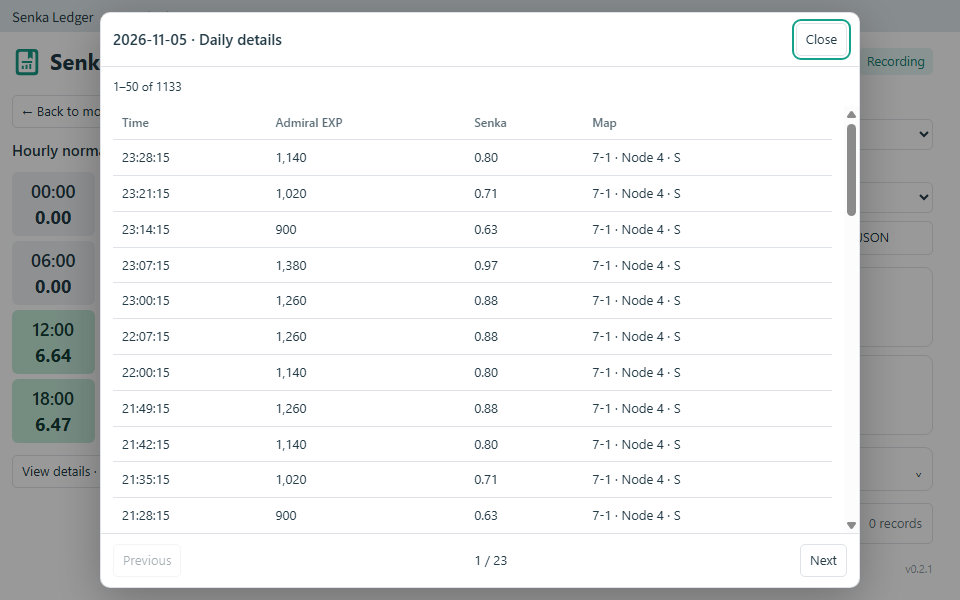
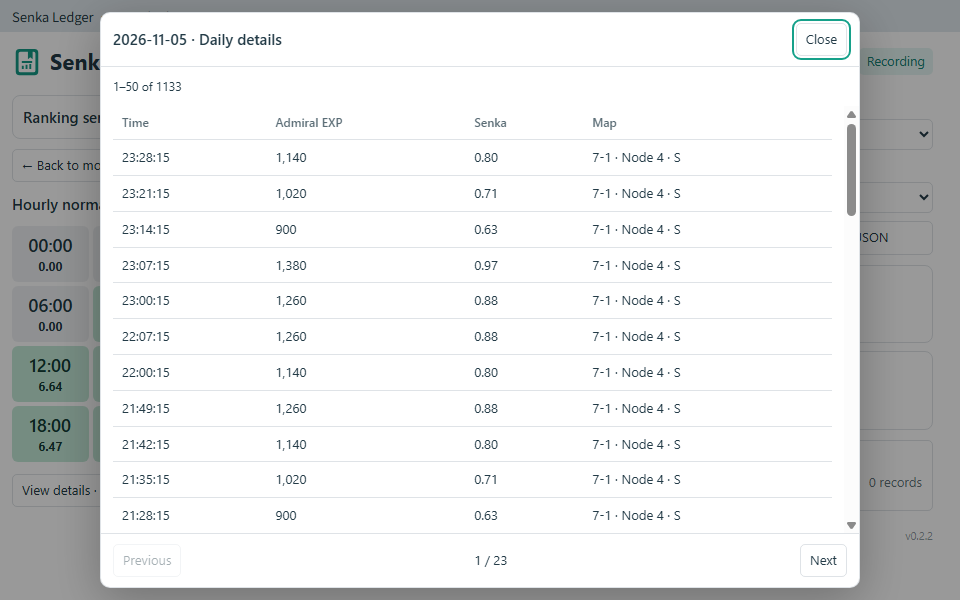
Release v0.2.2 with persistent columns and ranking refresh changes

diff --git a/src/styles.js b/src/styles.js
@@ -6,20 +6,20 @@ module.exports = `
 .sl *{box-sizing:border-box}.sl h2{font-size:22px;margin:0;font-weight:650;overflow-wrap:anywhere}.sl h3{font-size:15px;margin:0;font-weight:600;overflow-wrap:anywhere}.sl p{margin:6px 0}.sl .muted{opacity:.7}
 .sl .top,.sl .brand,.sl .navigation{display:flex;gap:8px;align-items:center;flex-wrap:wrap}.sl .brand{min-width:0}.sl .brand svg{width:30px;height:30px;color:#159985;flex:none}.sl .top{justify-content:space-between}
 .sl .tag{color:#168777;background:rgba(40,178,153,.12);padding:3px 8px;border-radius:5px;max-width:100%;overflow-wrap:anywhere}
-.sl .workspace{display:grid;grid-template-columns:minmax(0,1.4fr) minmax(200px,1fr);gap:20px;align-items:start;margin:16px auto 0;max-width:1100px}.sl .activity-pane{min-width:0;container-type:inline-size}.sl .summary-pane{min-width:0;display:grid;gap:12px}
+.sl .workspace{display:grid;grid-template-columns:minmax(0,1.4fr) minmax(140px,1fr);gap:12px;align-items:start;margin:16px auto 0;max-width:1100px}.sl .activity-pane{min-width:0;container-type:inline-size}.sl .summary-pane{min-width:0;display:grid;gap:10px;container-type:inline-size}
 .sl .controls{display:grid;grid-template-columns:repeat(2,minmax(0,1fr));gap:8px}.sl .controls label{display:flex;flex-direction:column;gap:3px;min-width:0}.sl .controls label:first-child{grid-column:1/-1}
 .sl select,.sl button{font:inherit;color:inherit;background:transparent;border:1px solid var(--sl-line);border-radius:5px;padding:5px 9px;min-width:0}.sl select{width:100%;text-overflow:ellipsis}.sl select option{color:#172d3b;background:#f6f9fb}.sl button{cursor:pointer;overflow-wrap:anywhere}.sl .controls button{align-self:end;min-height:34px;white-space:normal}
 .sl button:disabled{opacity:.4;cursor:default}.sl button:focus-visible,.sl select:focus-visible{outline:2px solid #16a18a;outline-offset:2px}
-.sl .cards{display:grid;grid-template-columns:repeat(2,minmax(0,1fr));gap:8px}.sl .card{border:1px solid var(--sl-line);border-radius:8px;padding:10px;min-width:0}.sl .card-label{line-height:1.4;overflow-wrap:anywhere}.sl .value{font-size:clamp(18px,3cqi,25px);font-variant-numeric:tabular-nums;font-weight:650;overflow-wrap:anywhere}.sl .accent{color:#159985}.sl .amber{color:#c68d26}
-.sl .error{border:1px solid #d56b6b;padding:10px;white-space:pre-wrap;overflow-wrap:anywhere}.sl .scroll{overflow:auto;max-width:100%;min-width:0}.sl table{border-collapse:collapse;width:100%;font-variant-numeric:tabular-nums}.sl th,.sl td{text-align:left;padding:7px 9px;border-bottom:1px solid var(--sl-line);white-space:nowrap}.sl th{font-size:12px;opacity:.75;font-weight:500}.sl .details-table{min-width:410px}.sl .unknown-table{min-width:480px}.sl .rank-table{min-width:350px}.sl .stamp span{display:block;line-height:1.4}.sl .rank-own{font-weight:600;color:#159985}
-.sl .section-head{margin-bottom:10px}.sl .calendar{display:grid;grid-template-columns:repeat(7,minmax(0,1fr));gap:4px;min-width:350px;max-width:520px}.sl .weekday{text-align:center;opacity:.7;padding:2px 0 5px}
+.sl .cards{display:grid;grid-template-columns:repeat(2,minmax(0,1fr));gap:8px}.sl .card{border:1px solid var(--sl-line);border-radius:8px;padding:10px;min-width:0}.sl .card-label{line-height:1.4;overflow-wrap:anywhere}.sl .value{font-size:clamp(16px,10cqi,24px);font-variant-numeric:tabular-nums;font-weight:650;overflow-wrap:anywhere}.sl .accent{color:#159985}.sl .amber{color:#c68d26}
+.sl .error{border:1px solid #d56b6b;padding:10px;white-space:pre-wrap;overflow-wrap:anywhere}.sl .scroll{overflow:auto;max-width:100%;min-width:0}.sl table{border-collapse:collapse;width:100%;font-variant-numeric:tabular-nums}.sl th,.sl td{text-align:left;padding:7px 9px;border-bottom:1px solid var(--sl-line);white-space:nowrap}.sl th{font-size:12px;opacity:.75;font-weight:500}.sl .details-table{min-width:410px}.sl .unknown-table{min-width:480px}.sl .rank-table{min-width:460px}.sl .stamp span{display:block;line-height:1.4}.sl .rank-own{font-weight:600;color:#159985}
+.sl .section-head{margin-bottom:10px}.sl .calendar{display:grid;grid-template-columns:repeat(7,minmax(0,1fr));gap:3px;min-width:280px;max-width:480px}.sl .weekday{text-align:center;opacity:.7;padding:2px 0 5px}
 .sl .ranking{border:1px solid var(--sl-line);border-radius:8px;padding:9px 10px;min-width:0}.sl .rank-summary{cursor:pointer;display:flex;flex-wrap:wrap;gap:5px 9px;align-items:center;justify-content:space-between}.sl .rank-summary::after{content:'⌄';margin-left:auto}.sl .ranking[open] .rank-summary::after{content:'⌃'}
-.sl .tile{display:flex;flex-direction:column;align-items:center;justify-content:center;padding:4px;border:1px solid transparent;border-radius:6px;min-width:0;min-height:64px;gap:3px;text-align:center}.sl .tile:hover{box-shadow:inset 0 0 0 2px rgba(22,130,111,.5)}.sl .tile[aria-pressed="true"]{outline:2px solid #c68d26;outline-offset:-2px}.sl .tile-label{font-size:18px;font-weight:600;line-height:1.25;white-space:nowrap}.sl .tile-value{font-size:clamp(12px,3.5cqi,20px);font-weight:650;line-height:1.25;font-variant-numeric:tabular-nums;max-width:100%;white-space:nowrap}
-.sl .hours{display:grid;grid-template-columns:repeat(6,minmax(0,1fr));gap:5px;max-width:520px}.sl .detail-trigger{margin-top:12px}.sl .unknown-trigger{display:flex;justify-content:space-between;flex-wrap:wrap;gap:6px;text-align:left;width:100%;padding:9px 10px}.sl .empty{padding:16px 8px;text-align:center;opacity:.65;white-space:normal;overflow-wrap:anywhere}.sl .foot{font-size:11px;opacity:.5;text-align:right;margin-top:16px}
+.sl .tile{display:flex;flex-direction:column;align-items:center;justify-content:center;padding:4px;border:1px solid transparent;border-radius:6px;min-width:0;min-height:56px;gap:3px;text-align:center}.sl .tile:hover{box-shadow:inset 0 0 0 2px rgba(22,130,111,.5)}.sl .tile[aria-pressed="true"]{outline:2px solid #c68d26;outline-offset:-2px}.sl .tile-label{font-size:18px;font-weight:600;line-height:1.25;white-space:nowrap}.sl .tile-value{font-size:12px;font-weight:650;line-height:1.25;font-variant-numeric:tabular-nums;max-width:100%;white-space:nowrap}
+.sl .hours{display:grid;grid-template-columns:repeat(6,minmax(0,1fr));gap:4px;min-width:150px;max-width:480px}.sl .detail-trigger{margin-top:12px}.sl .unknown-trigger{display:grid;grid-template-columns:minmax(0,1fr) auto;gap:4px 8px;text-align:left;width:100%;padding:9px 10px}.sl .unknown-heading{grid-column:1/-1}.sl .unknown-total{min-width:0;overflow-wrap:anywhere}.sl .unknown-total .value{font-size:18px}.sl .activity-pane>.ranking{margin-bottom:10px}.sl .rank-change{display:inline-block;white-space:nowrap;margin-left:6px}.sl .empty{padding:16px 8px;text-align:center;opacity:.65;white-space:normal;overflow-wrap:anywhere}.sl .foot{font-size:11px;opacity:.5;text-align:right;margin-top:16px}
 .sl .detail-dialog{width:760px;max-width:calc(100vw - 16px);max-height:calc(100dvh - 24px);padding:0;border:1px solid var(--sl-line);border-radius:10px;background:#fff;color:#233b47;box-shadow:0 12px 48px #0004;overflow:hidden}.sl .detail-dialog[open]{display:flex;flex-direction:column}.sl .detail-dialog::backdrop{background:#0006}.sl .dialog-header,.sl .dialog-toolbar,.sl .dialog-footer{display:flex;align-items:center;justify-content:space-between;flex-wrap:wrap;gap:8px;padding:10px 12px;flex:none}.sl .dialog-header h3{flex:1;min-width:0}.sl .dialog-header{border-bottom:1px solid var(--sl-line)}.sl .dialog-toolbar{font-size:12px}.sl .dialog-body{min-height:0;overflow:auto;overscroll-behavior:contain;padding:0 12px}.sl .dialog-footer{border-top:1px solid var(--sl-line);font-variant-numeric:tabular-nums}.bp6-dark .sl .detail-dialog{background:#202b35;color:#d8e3e9}
 @media(prefers-color-scheme:dark){.sl .detail-dialog{background:#202b35;color:#d8e3e9}}
-@container(max-width:640px){.sl .workspace{grid-template-columns:minmax(0,1fr);gap:16px}.sl .summary-pane{max-width:520px}.sl .value{font-size:22px}}
-@container(max-width:440px){.sl .hours{grid-template-columns:repeat(4,minmax(0,1fr))}.sl .calendar .tile-value{font-size:13px}}
-@container(max-width:300px){.sl .hours{grid-template-columns:repeat(3,minmax(0,1fr))}.sl .controls{grid-template-columns:minmax(0,1fr)}.sl .card{padding:8px}.sl .value{font-size:18px}}
+@container(max-width:220px){.sl .controls{grid-template-columns:minmax(0,1fr)}.sl .cards{grid-template-columns:minmax(0,1fr)}.sl .card{padding:8px}.sl .unknown-trigger{grid-template-columns:minmax(0,1fr)}}
+@container(max-width:440px){.sl .hours{grid-template-columns:repeat(4,minmax(0,1fr))}}
+@container(max-width:300px){.sl .hours{grid-template-columns:repeat(3,minmax(0,1fr))}}
 @container(max-width:230px){.sl .hours{grid-template-columns:repeat(2,minmax(0,1fr))}.sl .cards{grid-template-columns:minmax(0,1fr)}}
 `

diff --git a/src/panel.js b/src/panel.js
@@ -63,6 +63,7 @@ function createPanel(React, service) {
     const [start] = monthBounds(month, zone)
     const selectedStart = selected ? start + (Number(selected.day.slice(-2)) - 1) * DAY : null
     const unknown = stats.unknown.filter(e => !selected || (e.from < selectedStart + DAY && e.to >= selectedStart)).slice().sort((a, b) => b.at - a.at)
+    const unknownTotal = unknown.reduce((sum, e) => sum + e.amount, 0)
     const page = paginate(detailKind === 'unknown' ? unknown : timeline, detailPage)
     const offset = (new Date(month + '-01T00:00:00Z').getUTCDay() + 6) % 7
     React.useEffect(() => {
@@ -85,12 +86,26 @@ function createPanel(React, service) {
       try { service.export(account, month, zone, type, language); setExportError('') } catch (error) { setExportError(error.message) }
     }
     const failure = status.error || entry?.error || exportError
+    const changeText = value => value === null ? '—' : `${value > 0 ? '+' : ''}${fmt(value)}`
     const detailsTitle = detailKind === 'unknown' ? t('unknown') : `${selected?.day || month} · ${slot === null ? t('dayDetail') : t('hourDetail', { hour: `${String(slot).padStart(2, '0')}:00–${String(slot + 1).padStart(2, '0')}:00` })}`
+    const rankingPanel = h('details', { className: 'ranking', 'aria-label': t('rankTitle') },
+      h('summary', { className: 'rank-summary' }, h('h3', null, t('rankTitle')), h('span', { className: 'rank-own' },
+        own ? `${t('rankSelf')} #${own.rank} · ${fmt(own.score)}` : t('rankPending'),
+        own && h('span', { className: 'rank-change', title: t('rankChange'), 'data-ranking-change': 'self' }, ` Δ ${changeText(own.change)}`))),
+      ranks.rows.length ? h('div', { className: 'scroll' }, h('table', { className: 'rank-table', 'data-table': 'ranking' },
+        th(['rankNo', 'rankScore', 'rankChange', 'rankGap', 'rankReadAt']), h('tbody', null, ...rankRows.map(rank => {
+          const row = ranks.rows.find(r => r.rank === rank)
+          const gap = row && own ? row.score - own.score : null
+          return h('tr', { key: rank, className: row?.self ? 'rank-own' : '' }, h('td', null, `#${rank}${row?.self ? ' · ' + t('rankSelf') : ''}`),
+            h('td', null, row ? fmt(row.score) : '—'), h('td', { 'data-ranking-change': rank }, row ? changeText(row.change) : '—'),
+            h('td', null, gap === null || row.self ? '—' : changeText(gap)), h('td', null, row ? stamp(row.at) : '—'))
+        })))) : h('p', { className: 'muted empty' }, t('rankWaiting')))
     return h('div', { className: 'sl-shell', ref: root }, h('main', { className: 'sl', 'data-view': selected ? 'day' : 'month', lang: language }, h('style', null, style),
       h('div', { className: 'top' }, h('div', { className: 'brand' }, createIcon(React), h('h2', null, t('Senka Ledger'))), h('span', { className: 'tag' }, t(failure ? 'storageError' : status.account ? 'recording' : 'waiting'))),
       failure && h('p', { role: 'alert', className: 'error' }, errorText(failure, t)),
       h('div', { className: 'workspace' },
         h('section', { className: 'activity-pane' },
+          rankingPanel,
           selected ? h('div', { className: 'top section-head navigation' },
             h('button', { onClick: back, 'data-action': 'back' }, '← ' + t('back')), h('h3', null, selected.day),
             h('div', { className: 'navigation' }, h('button', { disabled: selected === stats.days[0], onClick: () => openDay(stats.days[stats.days.indexOf(selected) - 1].day) }, t('prevDay')),
@@ -103,10 +118,10 @@ function createPanel(React, service) {
               'aria-label': `${d.day} · ${t('normal')} ${tileNumber(d.normal)}`, style: tileStyle(d.normal, maxDay), onClick: () => openDay(d.day) },
               h('span', { className: 'tile-label' }, Number(d.day.slice(-2))), h('span', { className: 'tile-value' }, tileNumber(d.normal)))))) :
             h(React.Fragment, null, h('h3', { className: 'section-head' }, t('hourly')),
-              h('div', { className: 'hours', 'aria-label': t('hourly') }, ...selected.slots.map((value, hour) => h('button', { key: hour, className: 'tile', 'data-hour': hour,
+              h('div', { className: 'scroll' }, h('div', { className: 'hours', 'aria-label': t('hourly') }, ...selected.slots.map((value, hour) => h('button', { key: hour, className: 'tile', 'data-hour': hour,
                 title: `${String(hour).padStart(2, '0')}:00 · ${tileNumber(value)}`, 'aria-label': `${selected.day} ${hour}:00 · ${tileNumber(value)}`, 'aria-pressed': slot === hour,
                 style: tileStyle(value, maxHour), onClick: () => openDetails('normal', hour) },
-                h('span', { className: 'tile-label' }, `${String(hour).padStart(2, '0')}:00`), h('span', { className: 'tile-value' }, tileNumber(value))))),
+                h('span', { className: 'tile-label' }, `${String(hour).padStart(2, '0')}:00`), h('span', { className: 'tile-value' }, tileNumber(value)))))),
               h('button', { className: 'detail-trigger', 'data-action': 'details', onClick: () => openDetails('normal') }, t('openDetails'), ' · ', t('recordCount', { count: selected.events.length })))),
         h('aside', { className: 'summary-pane' },
           h('div', { className: 'controls' },
@@ -116,14 +131,11 @@ function createPanel(React, service) {
             h('label', null, t('timezone'), h('select', { 'aria-label': t('timezone'), 'data-control': 'zone', value: zone, onChange: e => { setZone(e.target.value); setSlot(null); closeDetails() } }, h('option', { value: 'Asia/Tokyo' }, t('japan')), h('option', { value: 'Asia/Shanghai' }, t('china')))),
             h('button', { disabled: !account, onClick: () => download('csv') }, t('exportCSV')), h('button', { disabled: !account, onClick: () => download('json') }, t('backupJSON'))),
           h('div', { className: 'cards' }, card(selected ? 'dayTotal' : 'monthTotal', totals.total, true), card('normal', totals.normal), card('eo', totals.eo), card('quest', totals.quest)),
-          h('details', { className: 'ranking', 'aria-label': t('rankTitle') }, h('summary', { className: 'rank-summary' }, h('h3', null, t('rankTitle')), h('span', { className: 'rank-own' }, own ? `${t('rankSelf')} #${own.rank} · ${fmt(own.score)}` : t('rankPending'))),
-            ranks.rows.length ? h('div', { className: 'scroll' }, h('table', { className: 'rank-table', 'data-table': 'ranking' }, th(['rankNo', 'rankScore', 'rankGap', 'rankReadAt']), h('tbody', null, ...rankRows.map(rank => {
-              const row = ranks.rows.find(r => r.rank === rank)
-              const gap = row && own ? row.score - own.score : null
-              return h('tr', { key: rank, className: row?.self ? 'rank-own' : '' }, h('td', null, `#${rank}${row?.self ? ' · ' + t('rankSelf') : ''}`), h('td', null, row ? fmt(row.score) : '—'), h('td', null, gap === null || row.self ? '—' : `${gap > 0 ? '+' : ''}${fmt(gap)}`), h('td', null, row ? stamp(row.at) : '—'))
-            })))) : h('p', { className: 'muted empty' }, t('rankWaiting'))),
-          h('button', { className: 'unknown-trigger', 'data-action': 'unknown', onClick: () => openDetails('unknown') }, h('span', null, t('unknown')), h('span', { className: 'muted' }, t('recordCount', { count: unknown.length }))))),
-      h('div', { className: 'foot' }, 'v0.2.1'),
+          h('button', { className: 'unknown-trigger', 'data-action': 'unknown', onClick: () => openDetails('unknown') },
+            h('span', { className: 'unknown-heading card-label' }, t('unknown')),
+            h('span', { className: 'unknown-total', 'data-summary': 'unknownTotal' }, t('total'), ' ', h('strong', { className: 'amber value' }, fmt(unknownTotal))),
+            h('span', { className: 'muted' }, t('recordCount', { count: unknown.length }))))),
+      h('div', { className: 'foot' }, 'v0.2.2'),
       h('dialog', { ref: dialog, className: 'detail-dialog', 'aria-labelledby': titleId, 'data-dialog': 'details', onClose: closeDetails, onCancel: closeDetails,
         onClick: event => { const box = event.currentTarget.getBoundingClientRect(); if (event.target === event.currentTarget && (event.clientX < box.left || event.clientX > box.right || event.clientY < box.top || event.clientY > box.bottom)) closeDetails() } },
         detailKind && h(React.Fragment, null,

diff --git a/scripts/preview.js b/scripts/preview.js
@@ -33,6 +33,7 @@ for(let d=1;d<=5;d++){
 apply(state,{v:1,type:'bonus',kind:'eo',at:at('2026-11-04T20:12:32'),amount:200,mapId:55,questId:null,key:'eo:2026-11:55',label:'5-5 · EO 奖励'});
 apply(state,{v:1,type:'bonus',kind:'quest',at:at('2026-11-05T16:22:30'),amount:350,mapId:null,questId:854,key:'quest:2026:2:854',label:'Z作战前段 · 任务 854'});
 apply(state,{v:1,type:'maps',at:at('2026-11-05T18:00:00'),cleared:[15,55]});
+apply(state,{v:1,type:'ranking',at:at('2026-11-05T03:30:00'),period:at('2026-11-05T03:00:00'),entries:[[1,8800],[5,8300],[20,7000],[100,4500],[300,3000],[500,2700]].map(([rank,score])=>({rank,score,self:rank===300}))});
 apply(state,{v:1,type:'ranking',at:at('2026-11-05T16:30:00'),period:at('2026-11-05T15:00:00'),entries:[[1,9000],[5,8500],[20,7200],[100,4800],[250,3200],[500,2800]].map(([rank,score])=>({rank,score,self:rank===250}))});
 state.events.push({id:++state.sequence,source:'local',kind:'normal',at:at('2026-11-05T16:10:00'),amount:0.14,exp:200,activity:'practice',mapId:null,node:null,rank:'S',label:'演习 · S'});
 if(params.has('long'))for(let i=0;i<1050;i++)state.events.push({id:++state.sequence,source:'local',kind:'normal',at:at('2026-11-05T16:00:00')+i*1000,amount:0.07,exp:100,mapId:71,node:4,rank:'S'});
@@ -60,12 +61,16 @@ async function preview(){
   const report=require('./model').summarize(state,'2026-11');
   for(const d of report.days)assert(doc.querySelector('[data-day="'+d.day+'"] .tile-value').textContent===tileNumber(d.normal),'Daily value mismatch');
   assert(!doc.querySelector('[data-table="unknown"]'),'Unknown list must not fill the main view');
+  assert(doc.querySelector('[data-summary="unknownTotal"] .value').textContent==='9.80','Unrecorded total must be visible before opening details');
   doc.querySelector('[data-action="unknown"]').click();await pause();
   assert(doc.querySelector('dialog').open&&doc.querySelectorAll('[data-table="unknown"] tbody tr').length===1,'Unknown dialog failed');
   doc.querySelector('[data-action="close-details"]').click();await pause();
   assert(!doc.querySelector('dialog').open,'Unknown dialog did not close');
   assert(!doc.querySelector('.legend')&&!doc.querySelector('.swatch'),'Legend must be absent');
   assert(doc.querySelector('[data-table="ranking"]').textContent.includes('#250'),'Ranking score missing');
+  assert(doc.querySelector('[data-ranking-change="self"]').textContent.includes('+200.00'),'Previous-refresh change missing');
+  assert(doc.querySelector('[data-ranking-change="1"]').textContent==='+200.00','Anchor refresh change missing');
+  assert(doc.querySelector('.activity-pane .ranking')&&!doc.querySelector('.summary-pane .ranking'),'Ranking must be above the activity tiles');
   assert(!doc.querySelector('[data-table="ranking"]').textContent.includes('#501'),'501 anchor must be removed');
   doc.querySelector('[data-day="2026-11-04"]').click();await pause();
   assert(doc.querySelectorAll('[data-hour]').length===24&&!doc.querySelector('.calendar'),'Secondary day view failed');
@@ -108,8 +113,10 @@ async function preview(){
  for(const el of doc.querySelectorAll('.tile-value,.tile-label'))assert(el.scrollWidth<=el.clientWidth+1,'Tile text overflow');
  assert(doc.documentElement.scrollWidth<=doc.defaultView.innerWidth,'Page horizontal overflow');
  const left=doc.querySelector('.activity-pane').getBoundingClientRect(),right=doc.querySelector('.summary-pane').getBoundingClientRect();
- const wide=doc.querySelector('.sl').clientWidth-24>640;
- assert(wide?right.left>=left.right-1:right.top>=left.bottom-1,'Activity and summaries overlap or are in the wrong order');
+ assert(right.left>=left.right-1,'Small panels must also keep summaries on the right');
+ const rankingBox=doc.querySelector('.ranking').getBoundingClientRect(),tiles=doc.querySelector('.calendar,.hours').getBoundingClientRect();
+ assert(rankingBox.bottom<=tiles.top,'Ranking must be above the tiles');
+ for(const el of doc.querySelectorAll('.tile-value'))assert(parseFloat(doc.defaultView.getComputedStyle(el).fontSize)<=12,'Senka values must use the smaller shared font size');
  for(const tile of doc.querySelectorAll('.tile'))assert(tile.getBoundingClientRect().height<=70,'Tiles should be compact');
  shell.scrollTop=0;
  if(params.get('view')==='details'){doc.querySelector('[data-action="details"]').click();await pause();assert(doc.querySelector('dialog').open,'Final detail dialog failed')}

diff --git a/test/ranking.test.js b/test/ranking.test.js
@@ -47,6 +47,7 @@ test('ranking periods cross months at 03:00 JST and reset the decoder between up
   assert.equal(period(at('2026-12-01T02:59:59')), at('2026-11-30T15:00:00'))
   assert.equal(period(at('2026-12-01T03:00:00')), at('2026-12-01T03:00:00'))
   assert.equal(period(at('2026-12-01T14:59:59')), at('2026-12-01T03:00:00'))
+  assert.equal(period(at('2026-12-01T15:00:00')), at('2026-12-01T15:00:00'))
   const reader = createRankingReader()
   const old = readRanking(reader, page(1), at('2026-12-01T02:59:00'), 'Admiral', '123')
   assert.equal(snapshot([old], '2026-11').rows.length, 3)
@@ -73,4 +74,45 @@ test('501 is no longer an anchor, but an actual own rank of 501 remains visible'
   assert.deepEqual(snapshot([legacy], '2026-11').rows.map(e => e.rank), [500])
   legacy.entries[1].self = true
   assert.deepEqual(snapshot([legacy], '2026-11').rows.map(e => e.rank), [500, 501])
+})
+const record = (time, entries) => ({ v: 1, type: 'ranking', at: at(time), period: period(at(time)), entries })
+test('refresh change compares the exact previous 03:00/15:00 period and follows own identity across rank changes', () => {
+  const history = [
+    record('2026-11-05T03:10:00', [{ rank: 1, score: 7000, self: false }, { rank: 250, score: 3000, self: true }]),
+    record('2026-11-05T15:10:00', [{ rank: 1, score: 7100, self: false }, { rank: 240, score: 3150, self: true }]),
+    record('2026-11-05T16:10:00', [{ rank: 1, score: 7100, self: false }, { rank: 240, score: 3180, self: true }])
+  ]
+  const result = snapshot(history, '2026-11')
+  assert.equal(result.rows.find(r => r.rank === 1).change, 100)
+  const own = result.rows.find(r => r.self)
+  assert.equal(own.rank, 240)
+  assert.equal(own.previousScore, 3000)
+  assert.equal(own.change, 180)
+  assert.equal(own.previousPeriod, at('2026-11-05T03:00:00'))
+})
+test('a missed refresh is left unknown instead of comparing the last available day', () => {
+  const history = [
+    record('2026-11-05T15:01:00', [{ rank: 1, score: 7000, self: false }, { rank: 250, score: 3000, self: true }]),
+    record('2026-11-06T15:01:00', [{ rank: 1, score: 7300, self: false }, { rank: 240, score: 3200, self: true }])
+  ]
+  assert.ok(snapshot(history, '2026-11').rows.every(r => r.change === null && r.previousScore === null))
+})
+test('03:00 refresh compares against the previous day at 15:00, including month and year boundaries', () => {
+  const history = [
+    record('2026-12-31T15:10:00', [{ rank: 1, score: 7000, self: false }, { rank: 250, score: 5000, self: true }]),
+    record('2027-01-01T03:10:00', [{ rank: 1, score: 800, self: false }, { rank: 240, score: 200, self: true }])
+  ]
+  const own = snapshot(history, '2027-01').rows.find(r => r.self)
+  assert.equal(own.change, -4800)
+  assert.equal(own.previousPeriod, at('2026-12-31T15:00:00'))
+})
+test('the previous refresh must contain the requested anchor or the own entry', () => {
+  const history = [
+    record('2026-11-05T03:01:00', [{ rank: 1, score: 7000, self: false }]),
+    record('2026-11-05T15:01:00', [{ rank: 1, score: 7100, self: false }, { rank: 5, score: 6800, self: false }, { rank: 240, score: 3200, self: true }])
+  ]
+  const rows = snapshot(history, '2026-11').rows
+  assert.equal(rows.find(r => r.rank === 1).change, 100)
+  assert.equal(rows.find(r => r.rank === 5).change, null)
+  assert.equal(rows.find(r => r.self).change, null)
 })

diff --git a/src/ranking.js b/src/ranking.js
@@ -45,14 +45,28 @@ function readRanking(reader, body, at, nickname, account) {
 }
 function snapshot(history, month) {
   const rows = new Map()
+  const periods = new Map()
   let lastAt = null
   for (const record of history || []) {
+    let previous = periods.get(record.period)
+    if (!previous) { previous = { rows: new Map(), at: null }; periods.set(record.period, previous) }
+    if (previous.at === null || record.at >= previous.at) {
+      if (record.entries.some(e => e.self)) for (const old of previous.rows.values()) old.self = false
+      for (const entry of record.entries) previous.rows.set(entry.rank, { ...entry })
+      previous.at = record.at
+    }
     if (parts(record.period).month !== month) continue
     if (lastAt !== null && record.at < lastAt) continue
     if (record.entries.some(e => e.self)) for (const old of rows.values()) old.self = false
     for (const entry of record.entries) rows.set(entry.rank, { ...entry, at: entry.at ?? record.at, period: record.period })
     lastAt = record.at
   }
-  return { rows: [...rows.values()].filter(e => e.self || ANCHORS.includes(e.rank)).sort((a, b) => a.rank - b.rank), at: lastAt }
+  const result = [...rows.values()].filter(e => e.self || ANCHORS.includes(e.rank)).sort((a, b) => a.rank - b.rank).map(row => {
+    const previousPeriod = row.period - 12 * HOUR
+    const previousRows = periods.get(previousPeriod)?.rows
+    const previous = row.self ? [...(previousRows?.values() || [])].find(e => e.self) : previousRows?.get(row.rank)
+    return { ...row, previousPeriod, previousScore: previous?.score ?? null, change: previous ? row.score - previous.score : null }
+  })
+  return { rows: result, at: lastAt }
 }
 module.exports = { ROW_FACTORS, ANCHORS, RANKING_PATH, period, createRankingReader, readRanking, snapshot }

diff --git a/src/export.js b/src/export.js
@@ -12,7 +12,7 @@ function toCSV(state, month, zone, language = 'zh-CN') {
   const t = translator(language)
   const stats = summarize(state, month, zone)
   const rows = [[t('month'), month, t('timezone'), zone], [t('monthTotal'), stats.total.toFixed(4)], [t('normal'), stats.normal.toFixed(4)],
-    [t('eo'), stats.eo.toFixed(4)], [t('quest'), stats.quest.toFixed(4)], [],
+    [t('eo'), stats.eo.toFixed(4)], [t('quest'), stats.quest.toFixed(4)], [t('unknown'), stats.unknownTotal.toFixed(4)], [],
     ['source', 'kind', 'senka', 'experience', 'csvTime', 'from', 'to', 'map', 'timezone'].map(key => t(key))]
   const events = [...stats.days.flatMap(d => d.events), ...stats.unknown].sort((a, b) => a.at - b.at)
   for (const e of events) rows.push([t(e.source === 'local' ? 'local' : 'unlocated'), t('normalKind'), e.amount.toFixed(4), e.exp ?? '', formatTime(e.at, zone),

diff --git a/test/ledger.test.js b/test/ledger.test.js
@@ -19,6 +19,7 @@ test('midnight gap stays in its interval; only current battle appears today', ()
   assert.equal(report.days[4].total, 0.7)
   assert.equal(report.days[4].slots[1], 0.7)
   assert.equal(report.unknownWithinMonth, 6.3)
+  assert.equal(report.unknownTotal, 6.3)
   assert.equal(report.unknown[0].from, at('2026-11-04T22:00:00'))
 })
 test('port reconnect never puts an offline delta into login hour', () => {
@@ -37,6 +38,7 @@ test('cross-month unknown totals remain unallocated in both months and survive y
     assert.equal(report.total, 0)
     assert.equal(report.unknownWithinMonth, 0)
     assert.equal(report.unknownAcrossMonths, 14)
+    assert.equal(report.unknownTotal, 14)
   }
   assert.deepEqual(months(state, 'Asia/Tokyo'), ['2027-01', '2026-12'])
 })

diff --git a/src/layout.js b/src/layout.js
@@ -23,7 +23,7 @@ function fitNumbers(root) {
   if (calendar) {
     const context = root.ownerDocument.createElement('canvas').getContext('2d')
     const gap = parseFloat(view.getComputedStyle(calendar).columnGap) || 0
-    let required = 350
+    let required = 280
     for (const el of calendar.querySelectorAll('.tile-value')) {
       const tile = view.getComputedStyle(el.parentElement)
       context.font = '650 12px ' + view.getComputedStyle(el).fontFamily

diff --git a/src/model.js b/src/model.js
@@ -45,6 +45,7 @@ function summarize(state, month, zone = 'Asia/Tokyo', minutes = 60) {
     if (e.kind === 'quest') quest += e.amount
   }
   return { days, total, normal, eo, quest, unknown,
+    unknownTotal: unknown.reduce((sum, e) => sum + e.amount, 0),
     unknownWithinMonth: unknown.filter(e => e.withinMonth).reduce((s, e) => s + e.amount, 0),
     unknownAcrossMonths: unknown.filter(e => !e.withinMonth).reduce((s, e) => s + e.amount, 0) }
 }

diff --git a/README.md b/README.md
@@ -6,11 +6,11 @@ A local senka ledger for **poi 12.0.1** with daily history, hourly details and r
 
 ## Features
 
-- A compact monthly calendar opens into daily and hourly views. Tiles stay on the left and filters, summaries and rankings stay on the right on wide panels; narrow panels stack them vertically. Date, time and score are centered.
+- A compact monthly calendar opens into daily and hourly views. Tiles stay on the left at every panel size, with rankings above them and filters and summaries on the right. Narrow calendars scroll within the left column. Date and time labels share one size; the smaller score values share another and stay centered.
 - Normal senka comes from each sortie or practice result's explicit Admiral EXP reward, using `EXP × 7 / 10000`. EO and quest rewards appear only in the summaries.
 - Details open in a separate modal dialog with its own scrolling and **50 records per page**, instead of filling the daily view with a long table. Click an hour for that hour's details, or use **View details** for the full day. Unrecorded gains also open in a dialog.
-- Unobserved EXP gains retain their possible interval and are excluded from login-day and login-hour activity. Unobserved EO and quest rewards are not inferred.
-- Ranking snapshots show your own score and positions **1, 5, 20, 100 and 500**, when those pages have been observed. Ranking scores are separate from activity totals.
+- Unobserved EXP gains retain their possible interval and show a visible total before opening their detail dialog. The total sums complete intervals in the current list, without allocating them to a particular day or month. They are excluded from login-day and login-hour activity. Unobserved EO and quest rewards are not inferred.
+- Ranking snapshots show your own score and positions **1, 5, 20, 100 and 500**, when those pages have been observed, plus each score's change since the preceding **03:00 or 15:00 JST** refresh. Ranking scores are separate from activity totals.
 - Independent scrolling works in poi's main panel and its **Open in window** portal. Narrow layouts wrap controls and summaries; wide tables and calendars can scroll horizontally without overlapping text.
 - Follows poi's language: English, Simplified Chinese, Traditional Chinese, Japanese or Korean. CSV headers, battle details and storage errors are localized as well.
 - Account-separated append-only journals, previous months, CSV export and complete JSON backup.
@@ -34,6 +34,8 @@ Enable the plugin and visit the home port to establish a live EXP baseline. Sele
 Practice rewards are identified as local activity when their explicit reward is present. Any extra cumulative EXP outside that reward remains unlocated. This fix applies to newly observed results; older unlocated records without a stored source cannot be safely reclassified.
 
 For ranking data, **open the ranking list inside the game** and visit the relevant pages, including your own entry. Expand the ranking section in the plugin to inspect scores and read times. The plugin observes normal game responses; it does not send ranking requests or operate the game. Same-name entries are not treated as yours when identity is ambiguous. Old snapshots keep their read time. At the start of a month, ranking responses read before 03:00 JST remain associated with the previous month.
+
+Refresh changes compare the exact preceding 12-hour ranking period, following your own entry even when your rank changes. Re-reading a page within one period does not replace that baseline. If the preceding period or entry was not recorded, the change shows `—`. Comparisons across a monthly reset can be negative.
 
 The plugin ID now matches the package name, correcting poi's active-plugin heading. Window, pin and favorite preferences from the previous ID are migrated. The journal location is unchanged.
 

diff --git a/README.ko-KR.md b/README.ko-KR.md
@@ -13,13 +13,17 @@
 
 순위 스냅샷은 활동 기록과 별도로 저장되며 날짜별·시간별 증가량에 합산되지 않습니다. 조회하지 않은 항목은 비워 두고, 같은 이름으로 자신을 구별할 수 없으면 자신의 항목으로 간주하지 않습니다. 월초 일본 시간 03:00 이전의 순위는 전월에 속합니다. 일반 게임 응답만 관찰하며 순위를 자동 요청하거나 게임을 조작하지 않습니다. 데이터가 부족하거나 형식이 바뀌면 새로운 점수를 추측해 표시하지 않습니다.
 
+갱신 차이는 매일 일본 시간 **03:00·15:00** 기준으로 바로 이전 순위 갱신과 비교합니다. 자신의 순위가 바뀌어도 본인의 전과를 비교하며 같은 갱신 구간에서 다시 조회해도 기준은 바뀌지 않습니다. 직전 구간이나 해당 항목이 기록되지 않았다면 `—`로 표시합니다. 월초 초기화를 거치면 차이가 음수일 수 있습니다.
+
 ## 화면과 데이터
 
 메인 패널과 새 창 열기 모두 독립적으로 스크롤됩니다. 좁은 화면에서는 조작부와 집계가 줄바꿈되며, 넓은 표와 달력은 가로로 스크롤할 수 있습니다. 날짜·시각·전과 숫자는 가운데 정렬되며 색상 범례는 없습니다. 플러그인 ID를 패키지 이름과 통일해 탭 제목을 수정하고 기존 창·고정·즐겨찾기 설정을 이전합니다.
 
-넓은 화면에서는 작은 전과 타일을 왼쪽에, 조작부·집계·순위를 오른쪽에 배치하며 좁은 화면에서는 위아래로 배치합니다. 상세와 미기록 증가량은 별도 창에서 페이지당 50건씩 표시합니다. 연습전 수정은 새 결산부터 적용되며 출처 정보가 없는 기존 기록은 안전하게 자동 수정할 수 없습니다.
+모든 화면 크기에서 타일은 왼쪽, 조작부·집계는 오른쪽, 순위는 타일 위에 배치합니다. 좁은 화면에서는 왼쪽 열 안에서 달력을 가로로 스크롤합니다. 날짜와 시간 라벨의 글자 크기를 맞추고 전과 숫자는 모두 작게 줄여 가운데 표시합니다. 상세와 미기록 증가량은 별도 창에서 페이지당 50건씩 표시합니다. 연습전 수정은 새 결산부터 적용되며 출처 정보가 없는 기존 기록은 안전하게 자동 수정할 수 없습니다.
 
 로컬 미기록 경험치 증가량은 발생 가능 구간으로 별도 표시하며 로그인한 날짜나 시간에 합산하지 않습니다. 외부 EO·임무 보상은 추정하지 않습니다. 활동 집계는 선택한 시간대의 날짜·월을 사용하며 공식 순위의 이월, 월말 마감, 임무의 다음 달 반영은 계산하지 않습니다. 기록을 시작하기 전의 개별 전투는 복원할 수 없습니다.
+
+미기록 증가량은 상세 창을 열기 전에도 현재 목록의 합계를 표시합니다. 각 기록의 전체 구간 금액을 더한 값이며 특정 날짜나 월에 배분하지 않습니다. 여러 날짜·월에 걸친 합계를 다시 더하면 안 됩니다.
 
 지원하는 정기 전과 임무는 `854, 888, 893, 872, 284, 845, 903`의 7개입니다.
 
